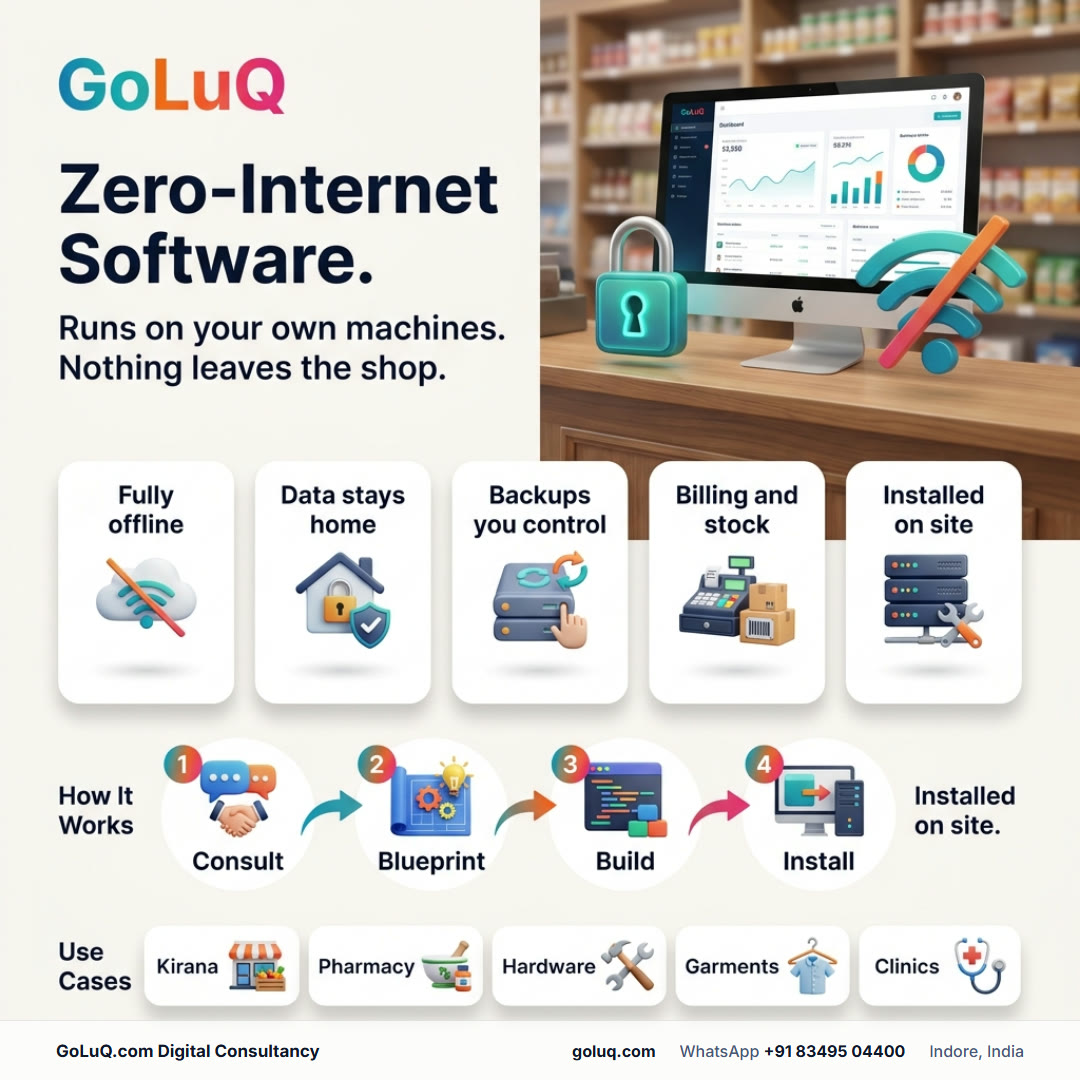
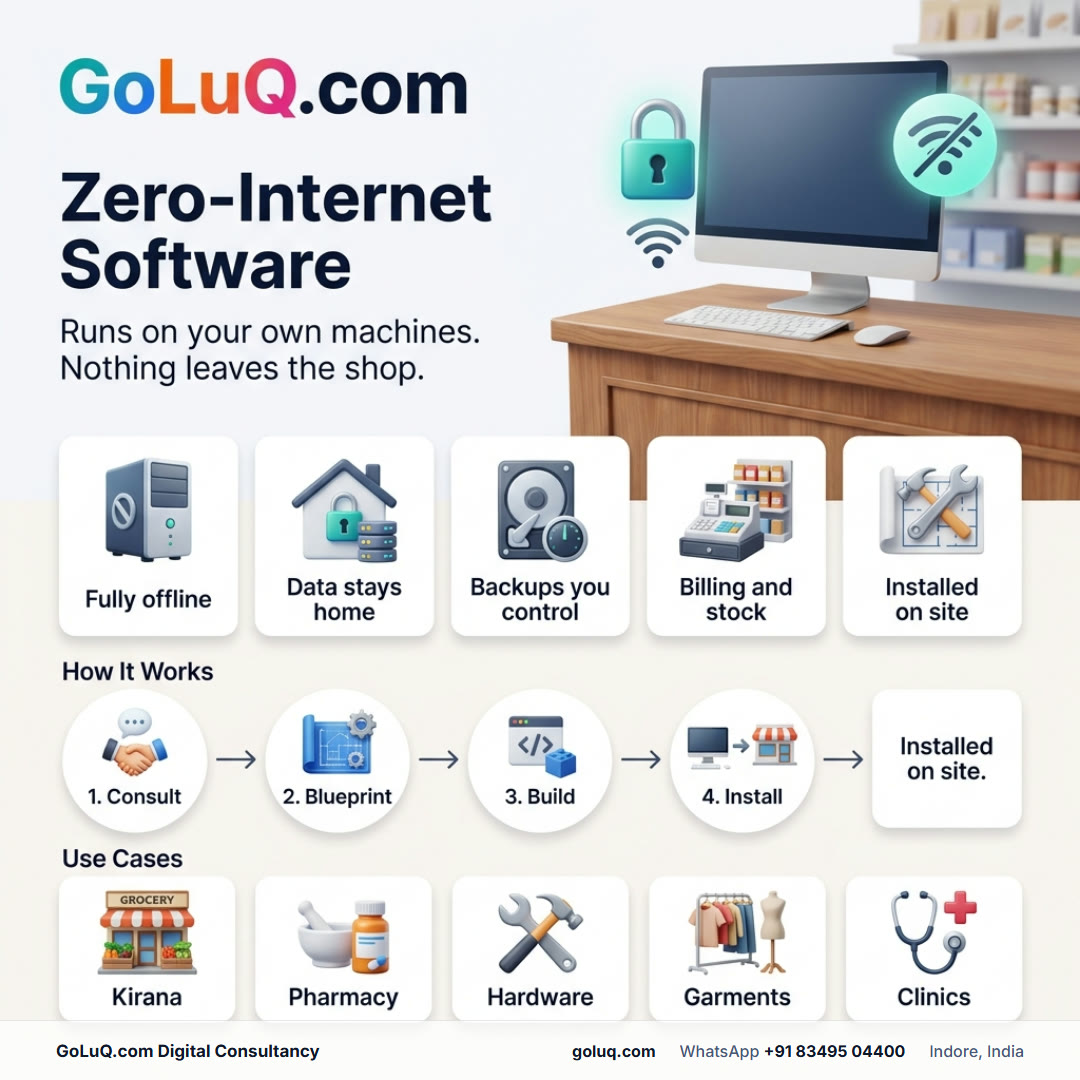
feat: GoLuQ.com wordmark on all catalogue cards; brand profile pictures; notes on ads and reels

diff --git a/docs/MASTER.md b/docs/MASTER.md
@@ -559,3 +559,22 @@ the fact stops believing every other term.
 - Same day: voice-off now stops narration immediately (generation token in
   lib/speak.ts); phone chapters are picture-above / words-below; catalogue
   cards and the Meta brand field read "GoLuQ.com Digital Consultancy".
+
+### Brand, ads, reels (2026-09-11)
+- Catalogue cards regenerated with the wordmark "GoLuQ.com" (".com" in navy)
+  and the footer "GoLuQ.com Digital Consultancy"; live at /catalog. Meta
+  catalog brand field = "GoLuQ.com Digital Consultancy".
+- Profile picture (circle-safe) at public/brand/profile-1080.png and
+  profile-640.png — for WhatsApp, Instagram, Facebook, LinkedIn.
+- Four Instagram/Facebook creatives (4:5) with the founder's real photo as
+  spokesperson, generated by Nano Banana Pro from the photo as reference
+  (scratchpad catalog/ads.py): receptionist, custom software, WhatsApp Store,
+  rent-vs-own. All end on "Book a 30-minute call".
+- Reel pipeline (scratchpad reel/build.mjs): story scene before → after →
+  end card, HTML caption overlays rendered by headless Edge, Gemini TTS
+  voice-over (gemini-2.5-flash-preview-tts), ffmpeg assembly, 1080×1920,
+  ~16 s. One per chapter per language is a script run.
+- Veo 3.1 (fast/lite) is available on the project key; an 8 s image-to-video
+  test worked but a 4:5 reference letterboxes in 9:16 and the animated
+  characters wobble — usable for B-roll with a 9:16 reference and no text,
+  not for the hero shot. Still-based reels look better and cost nothing.
